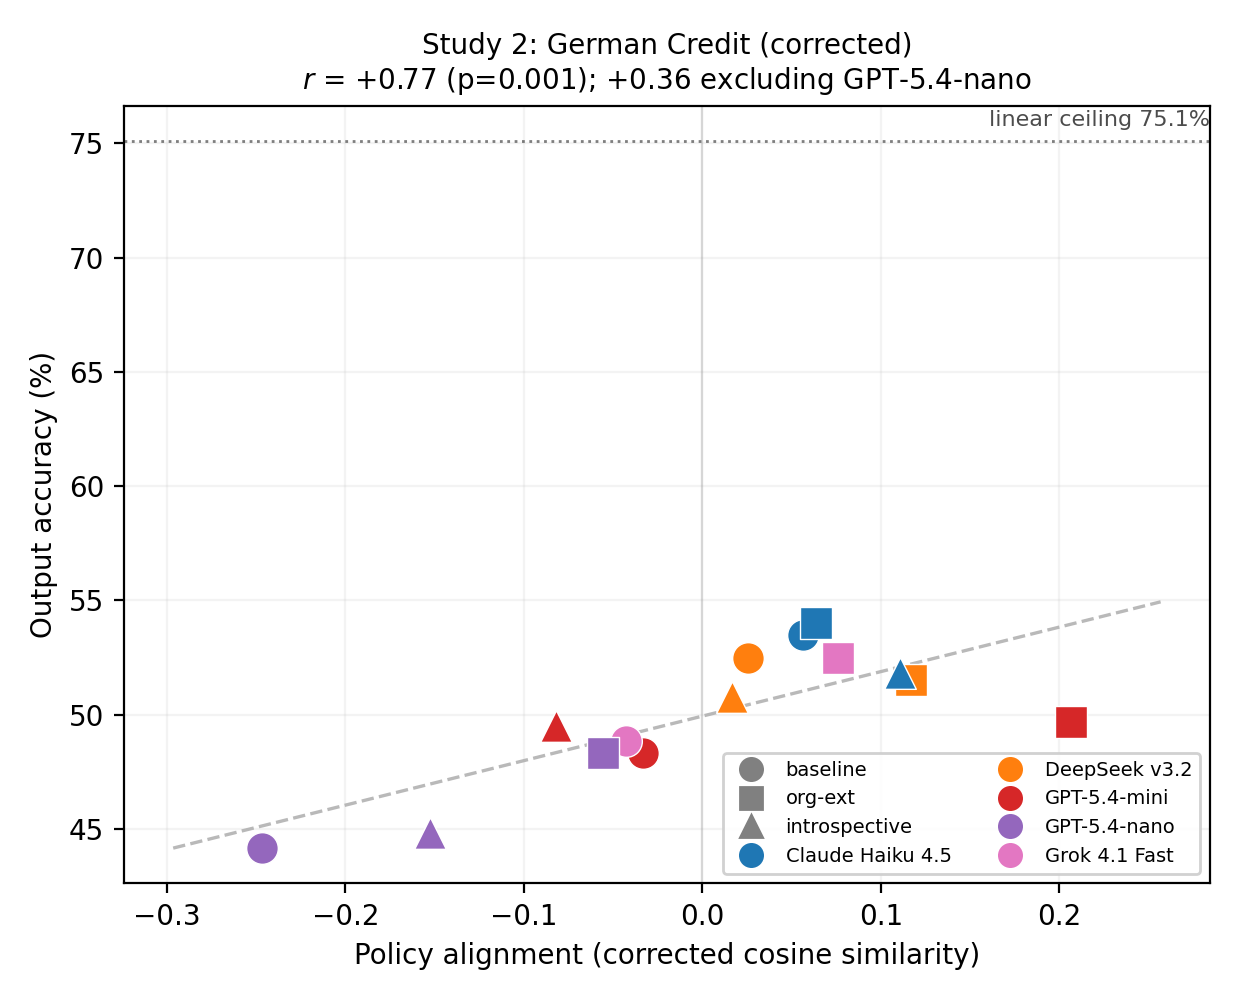
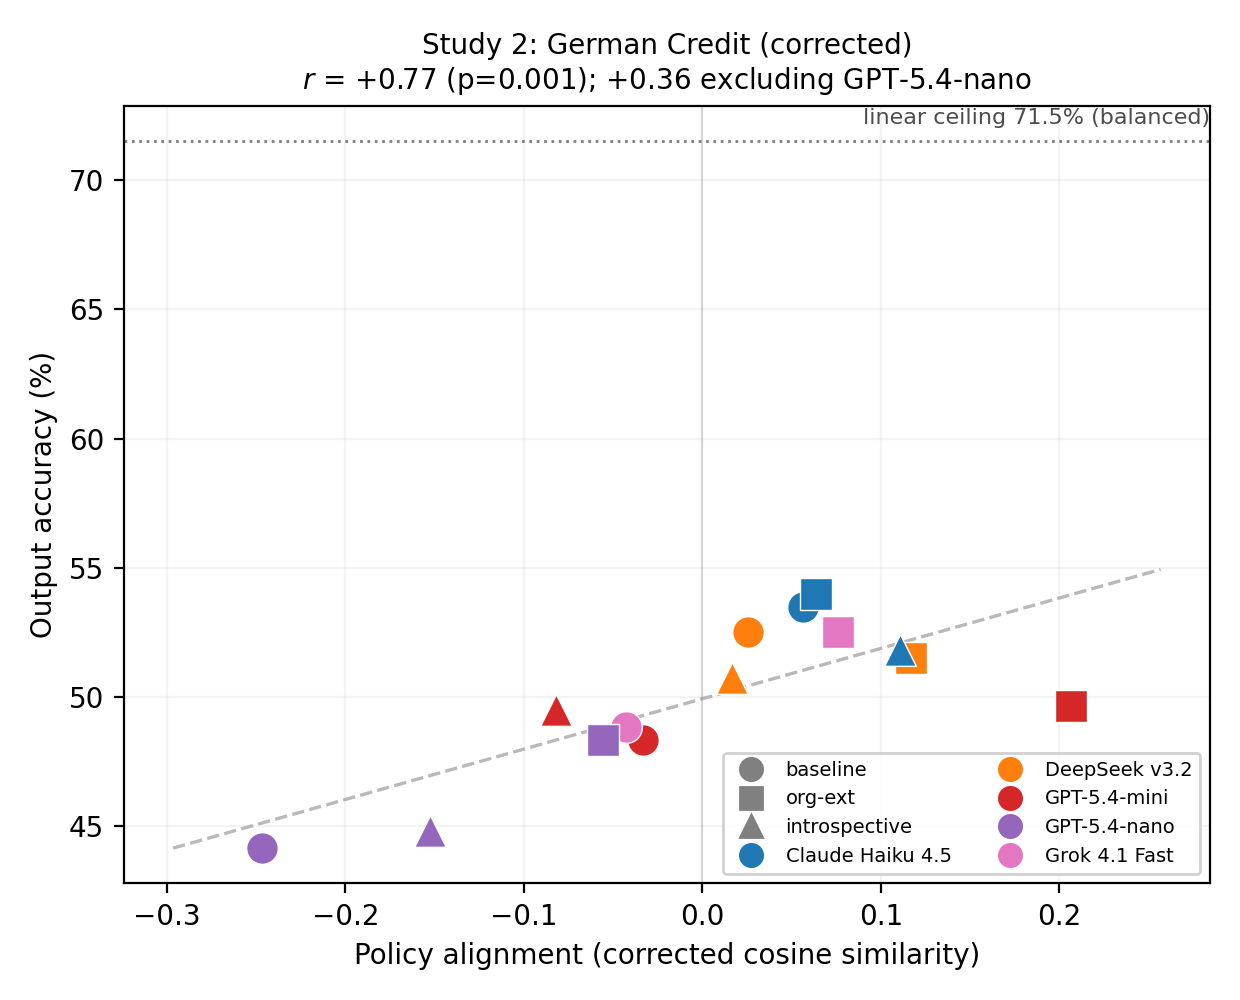
figures: corrected Study 2 figure + balanced ceiling + shared-y comparison
- core.py: add BALANCED_CEILING_ACC/AUC (71.5% / 0.776) constants — the
  method-consistent balanced-600 organizational ceiling (one-hot + standardized,
  5-fold CV), replacing the full-1000 75.1% number on the corrected scatter.
- run_protected_and_figures.py: corrected German Credit scatter now draws the
  balanced ceiling.
- plot_comparison_figure.py: right (German Credit) panel now uses the corrected
  cue-value cosines (accuracies unchanged); shared y-scale across panels;
  y-labels "LLM output accuracy"; ceilings renamed "court/bank regression linear
  ceiling"; single Pearson r per panel; suptitle removed; legend spacing tuned;
  writes to alignment_vs_accuracy_comparison_corrected.png (original committed
  figure left untouched). NOTE: ECHR_CSV is a local absolute path and must be
  set per machine.
- plot_credit_panel.py: new standalone, drop-in corrected German Credit panel
  matching the combined figure's right-panel style (no in-plot legend).
- Regenerated figures under report/icml2026/figures/.

diff --git a/plot_comparison_figure.py b/plot_comparison_figure.py
@@ -24,29 +24,33 @@ from scipy.stats import pearsonr
 
 # ── PATHS ─────────────────────────────────────────────────────────────────────
 
-ECHR_CSV   = "/tmp/ECHR_decision_cue_alignment/cross_model_results/per_model_summary.csv"
-OUTPUT     = "report/icml2026/figures/alignment_vs_accuracy_comparison.png"
+ECHR_CSV   = "/Users/niklashsg/Research/ECHR_decision_cue_alignment/.claude/worktrees/fervent-morse-6901d0/cross_model_results/per_model_summary.csv"
+# New name so the original committed figure is not overwritten; the German Credit
+# (right) panel now uses the corrected cue-value cosines.
+OUTPUT     = "report/icml2026/figures/alignment_vs_accuracy_comparison_corrected.png"
 
 # ── GERMAN CREDIT DATA (balanced subset, n=600) ───────────────────────────────
-# Source: analyze_weights.py balanced reports in analysis/
+# CORRECTED cue-value cosines from calm_corrected (one-hot + standardized, fixed
+# org policy). Accuracies are output-level and unchanged. See
+# analysis/corrected/corrected_german_credit_results.csv.
 
 GERMAN_RECORDS = [
     # model_display, condition, cosine, accuracy
-    ("Claude Haiku 4.5", "baseline",              0.503, 0.535),
-    ("Claude Haiku 4.5", "org-externalized",     -0.104, 0.540),
-    ("Claude Haiku 4.5", "introspective-externalized", 0.360, 0.518),
-    ("GPT-5.4-mini",     "baseline",              0.060, 0.483),
-    ("GPT-5.4-mini",     "org-externalized",      0.224, 0.497),
-    ("GPT-5.4-mini",     "introspective-externalized", 0.219, 0.495),
-    ("GPT-5.4-nano",     "baseline",              0.499, 0.442),
-    ("GPT-5.4-nano",     "org-externalized",      0.076, 0.483),
-    ("GPT-5.4-nano",     "introspective-externalized", -0.256, 0.448),
-    ("Grok 4.1 Fast",    "baseline",             -0.229, 0.488),
-    ("Grok 4.1 Fast",    "org-externalized",      0.176, 0.525),
+    ("Claude Haiku 4.5", "baseline",                    0.057, 0.535),
+    ("Claude Haiku 4.5", "org-externalized",            0.063, 0.540),
+    ("Claude Haiku 4.5", "introspective-externalized",  0.111, 0.518),
+    ("GPT-5.4-mini",     "baseline",                   -0.033, 0.483),
+    ("GPT-5.4-mini",     "org-externalized",            0.207, 0.497),
+    ("GPT-5.4-mini",     "introspective-externalized", -0.082, 0.495),
+    ("GPT-5.4-nano",     "baseline",                   -0.246, 0.442),
+    ("GPT-5.4-nano",     "org-externalized",           -0.056, 0.483),
+    ("GPT-5.4-nano",     "introspective-externalized", -0.152, 0.448),
+    ("Grok 4.1 Fast",    "baseline",                   -0.043, 0.488),
+    ("Grok 4.1 Fast",    "org-externalized",            0.076, 0.525),
     # Grok introspective excluded (degenerate: 99.5% Good)
-    ("DeepSeek v3.2",    "baseline",              0.264, 0.525),
-    ("DeepSeek v3.2",    "org-externalized",      0.164, 0.515),
-    ("DeepSeek v3.2",    "introspective-externalized", -0.183, 0.508),
+    ("DeepSeek v3.2",    "baseline",                    0.025, 0.525),
+    ("DeepSeek v3.2",    "org-externalized",            0.117, 0.515),
+    ("DeepSeek v3.2",    "introspective-externalized",  0.016, 0.508),
 ]
 
 # ── SHARED VISUAL SETTINGS ────────────────────────────────────────────────────
@@ -88,8 +92,11 @@ def get_color(model):
 
 def plot_panel(ax, df, x_col, y_col, condition_col, model_col,
                title, xlabel, ylabel, normative_line=None,
-               normative_label=None):
-    """Draw one scatter panel and return Pearson r, p."""
+               normative_label=None, xlim=None, ylim=None):
+    """Draw one scatter panel and return Pearson r, p.
+
+    ``xlim``/``ylim`` force a shared scale across panels (set before the ceiling
+    label is placed so its position is correct)."""
 
     conditions_present = []
     for cond_key in ["baseline", "court-externalized", "org-externalized",
@@ -118,6 +125,12 @@ def plot_panel(ax, df, x_col, y_col, condition_col, model_col,
             alpha=0.55, linewidth=1.2, zorder=1)
 
     r, p = pearsonr(x, y)
+
+    # Shared scale across panels (set before the ceiling label is placed).
+    if xlim is not None:
+        ax.set_xlim(xlim)
+    if ylim is not None:
+        ax.set_ylim(ylim)
 
     # Reference lines
     ax.axvline(0, color="grey", linestyle=":", linewidth=0.8, alpha=0.5)
@@ -164,9 +177,14 @@ def make_figure():
         if label not in all_cond_labels:
             all_cond_labels[label] = CONDITION_MARKER.get(cond, "D")
 
+    # ── Shared y-scale across both panels (x left independent) ────────────────
+    all_y = np.concatenate([echr["accuracy"].values, gc["accuracy"].values, [0.715]])
+    ypad = 0.08 * (all_y.max() - all_y.min())
+    GY = (all_y.min() - ypad, all_y.max() + ypad)
+
     # ── Figure ────────────────────────────────────────────────────────────────
     fig, axes = plt.subplots(1, 2, figsize=(12, 5))
-    plt.subplots_adjust(wspace=0.35)
+    plt.subplots_adjust(wspace=0.20)
 
     # Left: ECHR
     plot_panel(
@@ -175,8 +193,9 @@ def make_figure():
         condition_col="condition", model_col="model",
         title="Study 1: ECHR Article 6 Decisions\n($n=10$ models × 3 conditions)",
         xlabel="Policy alignment: cosine similarity of ridge cue weights",
-        ylabel="LLM accuracy vs. court decision",
-        normative_line=0.715, normative_label="court regression ceiling",
+        ylabel="LLM output accuracy",
+        normative_line=0.685, normative_label="court regression linear ceiling",
+        ylim=GY,
     )
 
     # Right: German Credit
@@ -186,8 +205,9 @@ def make_figure():
         condition_col="condition", model_col="model",
         title="Study 2: German Credit Decisions\n(balanced subset, $n=5$ models × 2–3 conditions)",
         xlabel="Policy alignment: cosine similarity of ridge cue weights",
-        ylabel="LLM accuracy vs. ground truth labels",
-        normative_line=0.751, normative_label="normative ceiling = 75.1%",
+        ylabel="LLM output accuracy",
+        normative_line=0.715, normative_label="bank regression linear ceiling",
+        ylim=GY,
     )
 
     # ── Shared condition legend (shapes) ─────────────────────────────────────
@@ -201,7 +221,7 @@ def make_figure():
         loc="lower center", ncol=len(all_cond_labels),
         fontsize=8, title_fontsize=8,
         framealpha=0.85,
-        bbox_to_anchor=(0.5, -0.06),
+        bbox_to_anchor=(0.5, -0.10),
     )
 
     # ── Model legend (colours) ────────────────────────────────────────────────
@@ -215,12 +235,7 @@ def make_figure():
         loc="lower center", ncol=5,
         fontsize=7.5, title_fontsize=8,
         framealpha=0.85,
-        bbox_to_anchor=(0.5, -0.22),
-    )
-
-    plt.suptitle(
-        "Cue-utilization alignment vs. output accuracy across organizational domains",
-        fontsize=11, y=1.01,
+        bbox_to_anchor=(0.5, -0.24),
     )
 
     plt.savefig(OUTPUT, dpi=150, bbox_inches="tight")

diff --git a/plot_credit_panel.py b/plot_credit_panel.py
@@ -1,0 +1,52 @@
+"""
+plot_credit_panel.py
+
+Renders ONLY the German Credit (Study 2) panel of Figure 1, styled identically
+to the right panel of plot_comparison_figure.py, so it can replace the old
+subplot directly:
+
+  - corrected cue-value cosines (calm_corrected), balanced-600 accuracies;
+  - same per-model colours and per-condition markers;
+  - green dotted "bank regression linear ceiling" line at 0.715 (same hue as the
+    combined figure);
+  - NO in-plot legend (the shared legend sits below the combined figure);
+  - single Pearson r in the title, matching the ECHR panel.
+
+Output:
+  report/icml2026/figures/corrected_german_credit_panel.png
+
+Usage:
+  python plot_credit_panel.py
+"""
+
+import matplotlib
+matplotlib.use("Agg")
+import matplotlib.pyplot as plt
+import pandas as pd
+
+from plot_comparison_figure import GERMAN_RECORDS, plot_panel
+
+OUTPUT = "report/icml2026/figures/corrected_german_credit_panel.png"
+
+
+def main():
+    gc = pd.DataFrame(GERMAN_RECORDS, columns=["model", "condition", "cosine", "accuracy"])
+
+    # One panel at the same per-panel size as the combined figure ((12, 5) / 2).
+    fig, ax = plt.subplots(1, 1, figsize=(6, 5))
+    plot_panel(
+        ax, gc,
+        x_col="cosine", y_col="accuracy",
+        condition_col="condition", model_col="model",
+        title="Study 2: German Credit Decisions\n(balanced subset, $n=5$ models × 2–3 conditions)",
+        xlabel="Policy alignment: cosine similarity of ridge cue weights",
+        ylabel="LLM accuracy vs. ground truth labels",
+        normative_line=0.715, normative_label="bank regression linear ceiling",
+    )
+    fig.savefig(OUTPUT, dpi=150, bbox_inches="tight")
+    plt.close(fig)
+    print(f"Figure saved: {OUTPUT}")
+
+
+if __name__ == "__main__":
+    main()

diff --git a/calm_corrected/core.py b/calm_corrected/core.py
@@ -76,6 +76,15 @@ ONE_HOT_DROP_FIRST = False    # compare coefficients in the full one-hot space
 CORRECTED_MAX_ITER = 2000     # solver iterations for the corrected path
 LEGACY_MAX_ITER = 1000        # matches analyze_weights.py exactly (paper repro)
 
+# Linear ceiling for the balanced-600 figure: 5-fold CV accuracy of the
+# organizational policy (credit_risk regressed on the cue values, one-hot +
+# standardized, C=1.0) on the balanced 600 — i.e. the SAME encoding used for the
+# corrected alignment everywhere else. Reproducible via the balanced-600 org fit
+# (CV acc 71.5%, CV AUC 0.776). This is the method-consistent balanced ceiling;
+# the paper's 75.1% is the full-1000 number and its 66.8% was a label-encoded fit.
+BALANCED_CEILING_ACC = 71.5
+BALANCED_CEILING_AUC = 0.776
+
 # ── CUE DEFINITIONS ──────────────────────────────────────────────────────────
 ALL_ATTRIBUTES = [
     "checking_account_status", "duration_months", "credit_history", "purpose",

diff --git a/calm_corrected/run_protected_and_figures.py b/calm_corrected/run_protected_and_figures.py
@@ -70,8 +70,10 @@ def _scatter(space, betas, accs, fig_path):
     m, bb = np.polyfit(x, y, 1)
     xl = np.linspace(x.min() - 0.05, x.max() + 0.05, 200)
     ax.plot(xl, (m * xl + bb) * 100, "--", color="grey", alpha=0.55, lw=1.2, zorder=1)
-    ax.axhline(75.1, ls=":", color="black", alpha=0.5, lw=1)
-    ax.text(ax.get_xlim()[1], 75.6, "linear ceiling 75.1%", ha="right", va="bottom", fontsize=8, alpha=0.7)
+    ax.axhline(core.BALANCED_CEILING_ACC, ls=":", color="black", alpha=0.5, lw=1)
+    ax.text(ax.get_xlim()[1], core.BALANCED_CEILING_ACC + 0.5,
+            f"linear ceiling {core.BALANCED_CEILING_ACC:.1f}% (balanced)",
+            ha="right", va="bottom", fontsize=8, alpha=0.7)
     ax.axvline(0, color="grey", alpha=0.25, lw=0.8)
     ax.set_xlabel("Policy alignment (corrected cosine similarity)")
     ax.set_ylabel("Output accuracy (%)")
